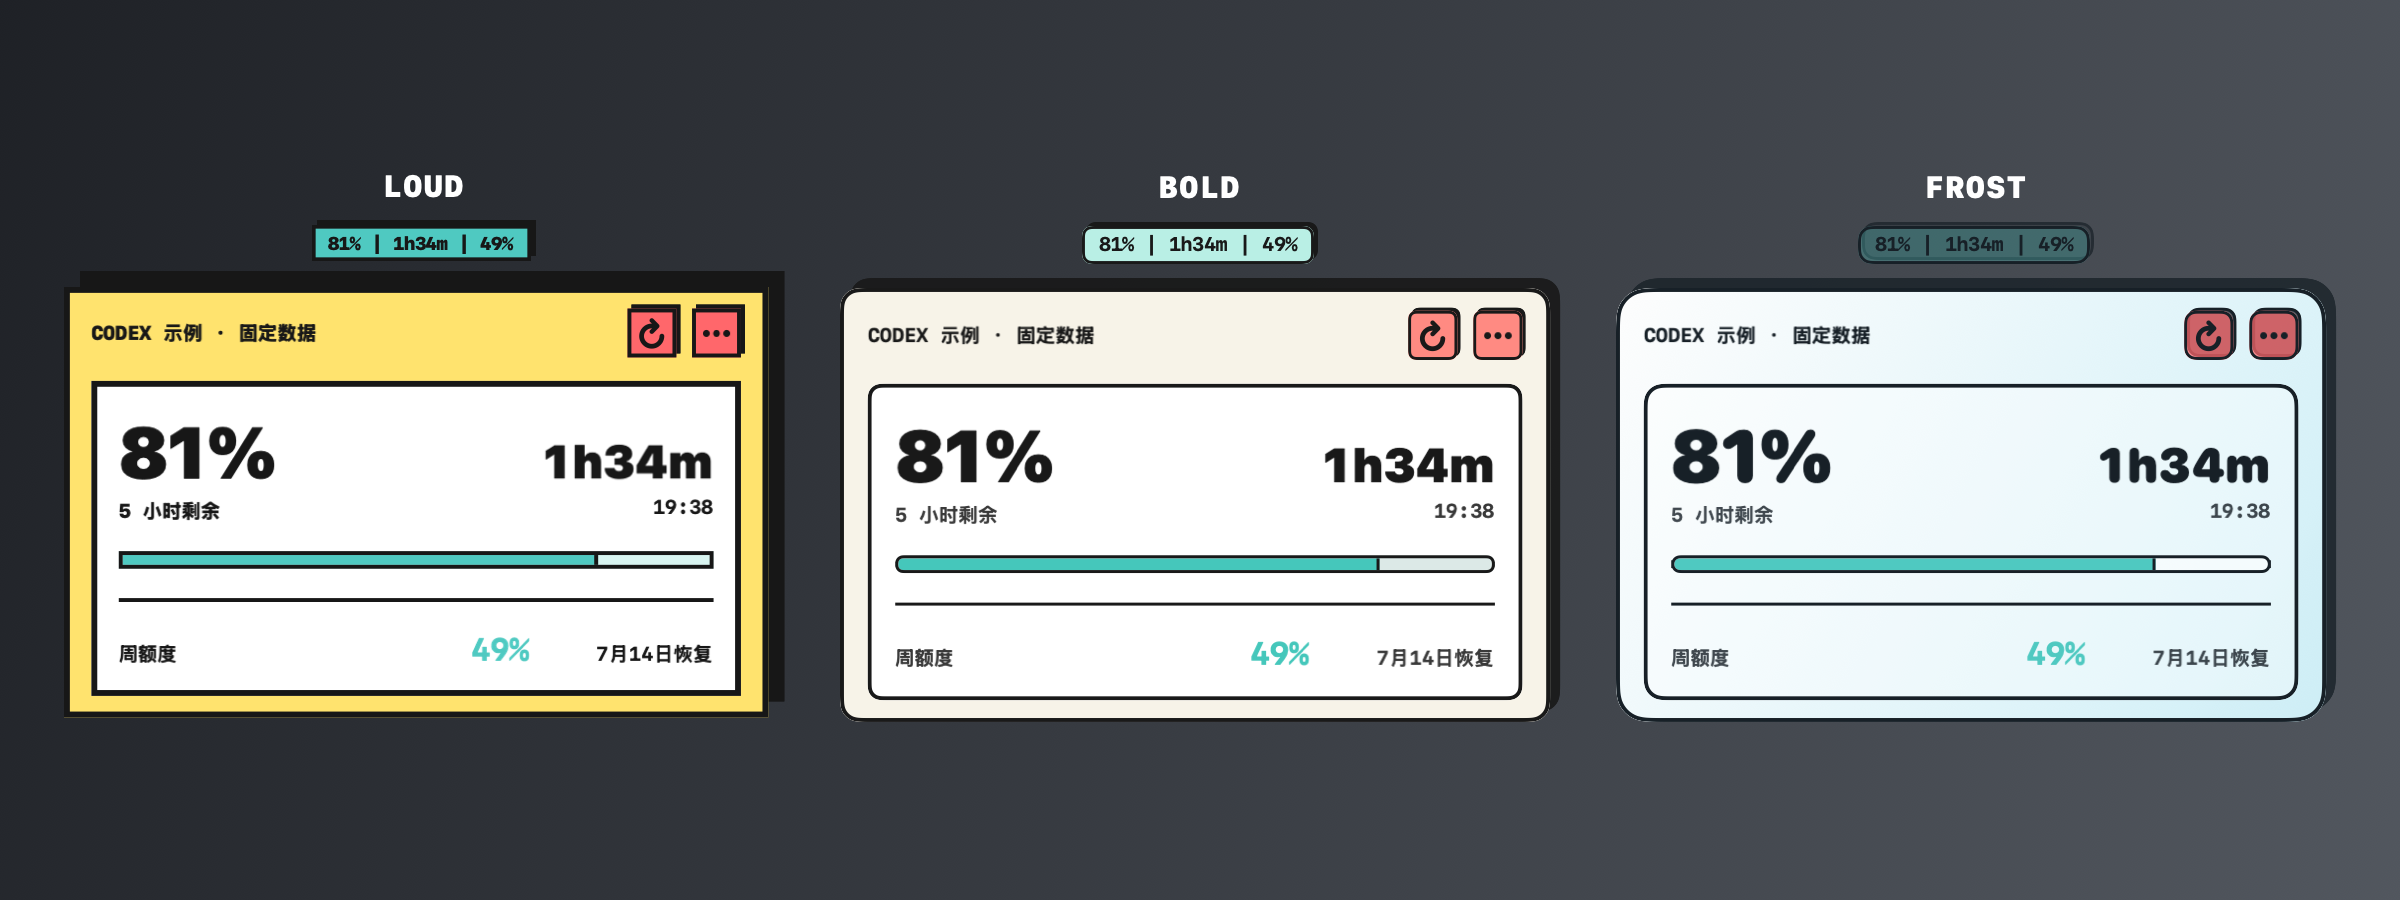
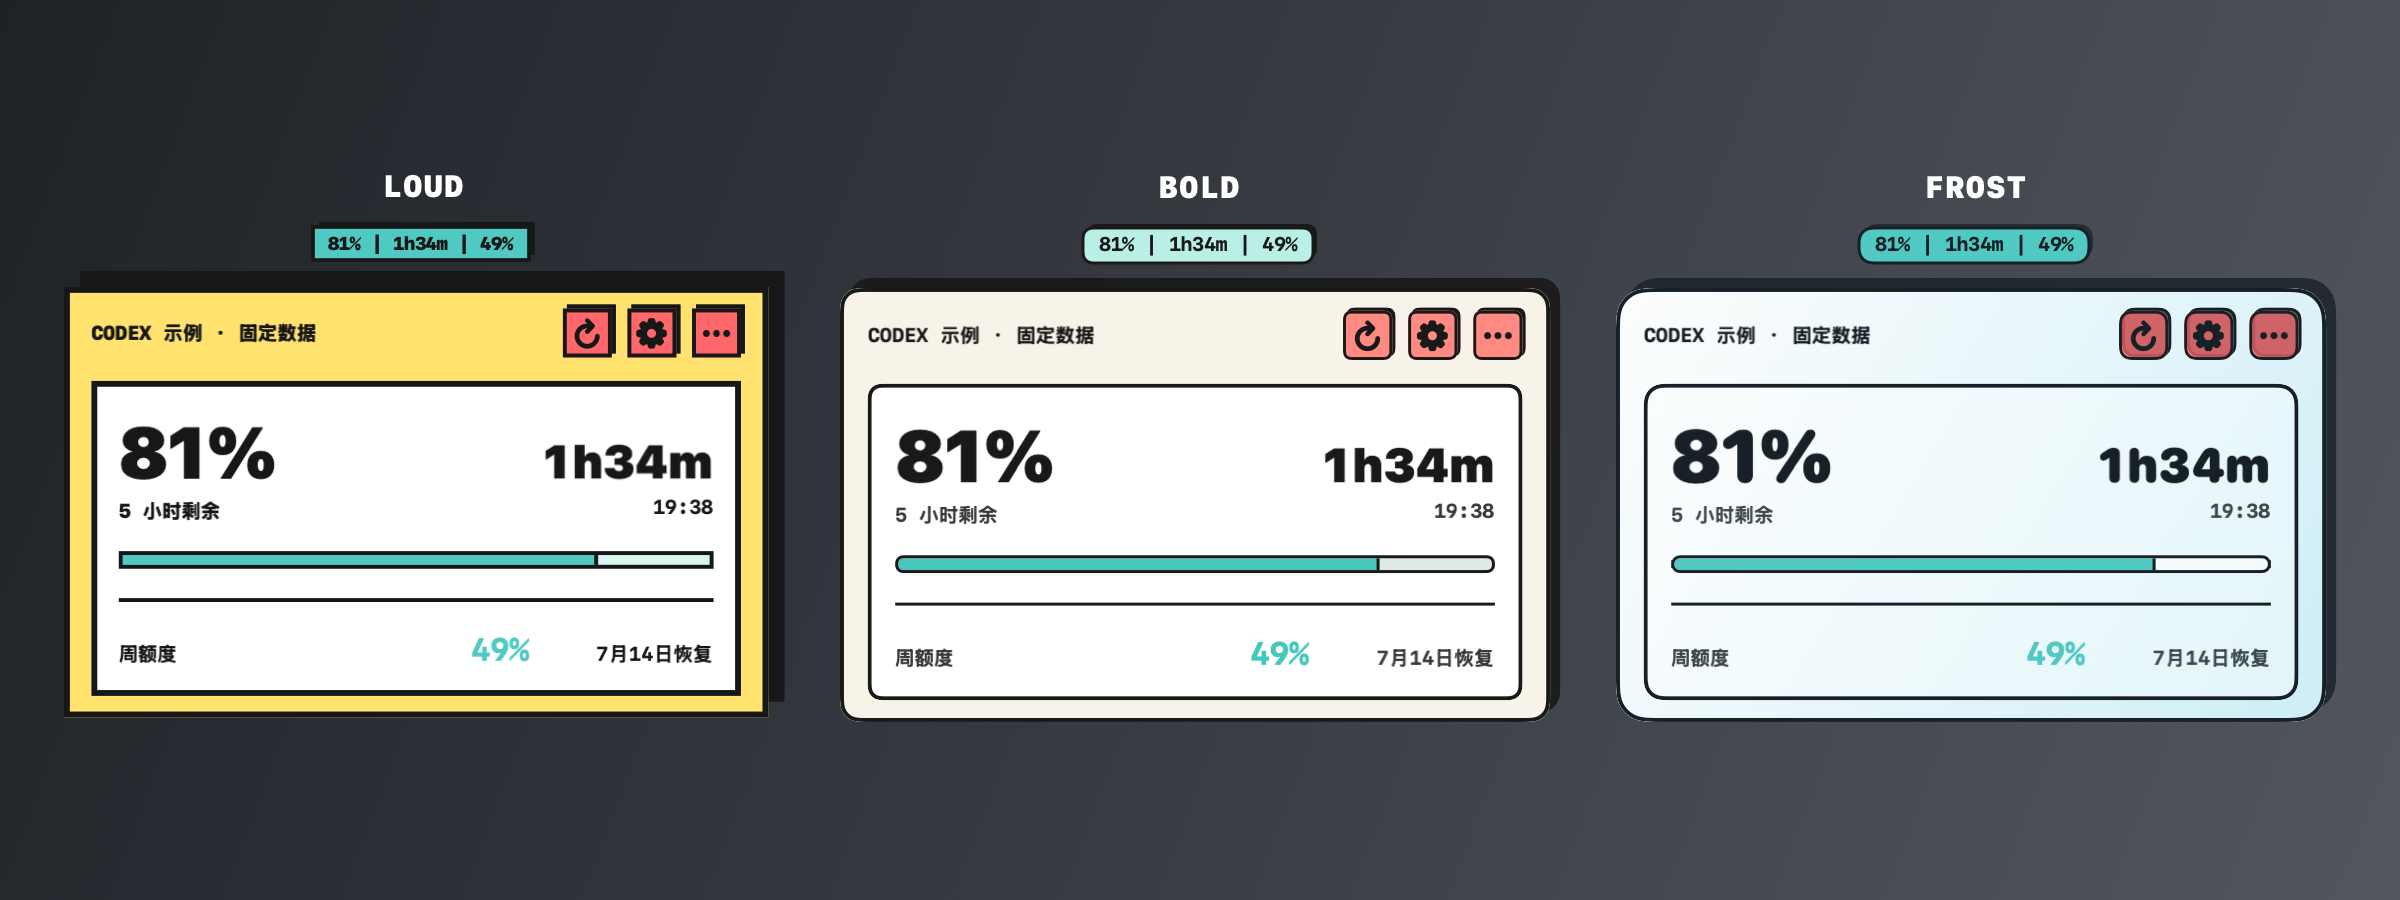
docs: refresh README and LOUD previews

diff --git a/Tests/CodexLimitPeekTests/Documentation/DocumentationPreviewRenderer.swift b/Tests/CodexLimitPeekTests/Documentation/DocumentationPreviewRenderer.swift
@@ -1326,7 +1326,7 @@ private struct DocumentationSettingsAtlas: View {
         ZStack {
             DocumentationLOUDStyle.yellow
 
-            VStack(spacing: 16) {
+            VStack(spacing: 12) {
                 HStack(alignment: .top, spacing: 16) {
                     ForEach(
                         Array(
@@ -1349,7 +1349,8 @@ private struct DocumentationSettingsAtlas: View {
                     }
                 }
             }
-            .padding(16)
+            .padding(.horizontal, 16)
+            .padding(.vertical, 12)
         }
         .frame(
             width: DocumentationPreviewRenderer
@@ -1362,7 +1363,7 @@ private struct DocumentationSettingsAtlas: View {
     private func atlasCell(
         _ cell: DocumentationSettingsCell
     ) -> some View {
-        VStack(alignment: .leading, spacing: 4) {
+        VStack(alignment: .leading, spacing: 8) {
             Text(cell.title)
                 .font(
                     .system(
@@ -1374,7 +1375,7 @@ private struct DocumentationSettingsAtlas: View {
                 .foregroundStyle(
                     DocumentationLOUDStyle.ink
                 )
-                .frame(height: 20)
+                .frame(height: 26)
 
             DocumentationOverlayPage(
                 quotaStore: quotaStore,
@@ -1382,11 +1383,15 @@ private struct DocumentationSettingsAtlas: View {
                 page: cell.page,
                 scrollTarget: cell.scrollTarget
             )
+            .offset(
+                y: cell.page == .statusItem ? 12 : 0
+            )
         }
         .frame(
             width: 336,
-            height: 576,
+            height: 582,
             alignment: .topLeading
         )
+        .clipped()
     }
 }

diff --git a/README.en.md b/README.en.md
@@ -19,12 +19,10 @@ It has no backend of its own and does not make direct quota HTTP requests or han
 ## Interface Preview
 
 <p align="center">
-  <img src="docs/images/panel-preview.png" alt="LOUD, BOLD, and FROST menu bar status items and quota panel previews" width="860">
+  <img src="docs/images/panel-preview.png" alt="LOUD, BOLD, and FROST status items and quota panels" width="860">
 </p>
 
-Every interface image in this README is generated by the repository's documentation renderer with fixed demonstration data. The quota and refresh images render the production `CompactStatusItemView`, the settings image uses real editor pages, and the three-theme overview uses the source theme preview components with the same appearance resolver. The renderer adds explanations only around those views; the quota, countdown, and refresh states shown are not the reader's real data.
-
-The screenshots retain the current production UI labels. This English README translates the documentation only and does not claim that the application interface itself is localized into English.
+Every interface image in this README is generated locally from fixed demonstration data. The three-theme overview uses production theme-preview components, the quota and refresh figures render the production status item, and the two settings figures render the real panel and status-item editors. The renderer adds headings and explanations only outside those production views; all quota values, times, and refresh states are fixed fixtures.
 
 - **LOUD:** High saturation, heavy strokes, and hard shadows create the most direct information hierarchy.
 - **BOLD:** Restrained colors, fine strokes, and structured geometry emphasize compactness and order.
@@ -53,7 +51,7 @@ In the dual-window layout, the countdown belongs to the 5-hour window. In the si
 ### Quota State Visualization
 
 <p align="center">
-  <img src="docs/images/quota-states-loud.png" alt="Production menu bar status items for normal, warning, and danger quota states in the LOUD theme" width="860">
+  <img src="docs/images/quota-states-loud.png" alt="Production status items for normal, warning, and danger quota states in LOUD" width="860">
 </p>
 
 The dual-window layout selects normal, warning, or danger from the remaining 5-hour quota. The single-window layout uses the remaining quota of its only valid window. Quota-state logic fixes the thresholds. Each theme can customize the colors used for those states without changing how the state is determined.
@@ -72,7 +70,7 @@ The dual-window layout selects normal, warning, or danger from the remaining 5-h
 ### Refresh Health Monitoring
 
 <p align="center">
-  <img src="docs/images/refresh-states-loud.png" alt="Live, confirming, and confirmed refresh states for dual-window and weekly-only layouts in the LOUD theme" width="860">
+  <img src="docs/images/refresh-states-loud.png" alt="Live, confirming, and confirmed-failure states for dual- and single-window layouts in LOUD" width="860">
 </p>
 
 Quota level and data freshness are two independent signals:
@@ -95,18 +93,15 @@ When a reliable snapshot exists, failure indication never replaces quota informa
 
 </details>
 
-### Feature Overview
+### Main Panel Actions
 
-- Automatically adapts between dual-window and single-window quota layouts
-- Refreshes at launch, manually, on schedule, and after wake from sleep
-- Confirms short-lived failures, keeps the latest reliable value, and retries recovery automatically
-- Uses freshness-limited local fallback data when the app-server is unavailable
-- Sends a local notification when quota is low
-- Offers optional voice announcements at 1-, 5-, or 10-minute intervals
-- Provides LOUD, BOLD, and FROST as independently persisted themes
-- Separates panel, menu bar status-item, and state-color settings
-- Uses the native macOS color panel with opacity and continuous preview
-- Collects no telemetry and uploads no prompts, replies, attachments, or quota records
+The main panel keeps three compact entry points:
+
+- **Refresh:** Requests an immediate quota update while preserving the 10-second request cooldown.
+- **Appearance Settings:** Opens the appearance editor directly from the gear button without first entering More.
+- **More:** Opens voice announcements, announcement intervals, and supporting actions such as Quit.
+
+These controls use the active theme's production button styling. Appearance Settings and More are independent pages.
 
 ## Appearance System
 
@@ -114,23 +109,43 @@ Appearance editing changes visual presentation only. It does not change quota th
 
 ### Theme Presets
 
-- **LOUD**, **BOLD**, and **FROST** each have an independent color configuration.
-- Panel typography, stroke, corner radius, shadow, and surface opacity are saved per theme.
-- Menu bar font, stroke, corner radius, shadow, padding, and height are also saved per theme.
-- The settings page's own font scale is global and does not change with the selected theme.
+- **LOUD**, **BOLD**, and **FROST** each retain their own colors, panel settings, status-item settings, and state colors.
+- Switching themes never overwrites either of the other profiles.
+- The settings page's own font scale is global rather than theme-specific.
 
-### Appearance Editor
+### Panel Appearance
 
 <p align="center">
-  <img src="docs/images/appearance-settings-loud.png" alt="LOUD theme settings for the base palette, panel controls, menu bar status item, and advanced state colors" width="720">
+  <img src="docs/images/appearance-panel-settings-loud.png" alt="Color, text, geometry, and shadow sections of the LOUD panel editor" width="720">
 </p>
 
-Using LOUD as the example, the complete appearance editor is divided into four groups:
+The panel editor keeps a live panel-and-status preview fixed at the top while the controls scroll independently below it. The pinned Color / Text / Geometry / Shadow row jumps directly to each section.
 
-- **Panel:** Base palette, panel typography and geometry, shadow, and surface opacity.
-- **Menu bar status item:** Separate primary and weekly text colors, shadow color and opacity, horizontal and vertical offsets, plus independent font, stroke, corner radius, horizontal padding, and height.
-- **State colors:** Normal, warning, danger, unavailable fill, and unavailable stripe colors.
-- **Settings typography:** A separate global font scale for the editor itself.
+Using LOUD as the example, it can adjust:
+
+- the background, surface, text and outline, and action-control base palette;
+- panel font size and the global settings-page font size;
+- outline width, corner radius, and panel geometry;
+- shadow depth, shadow blur, and surface opacity.
+
+Selecting the status item inside the fixed preview opens its dedicated editor.
+
+### Status Item Appearance
+
+<p align="center">
+  <img src="docs/images/appearance-status-settings-loud.png" alt="Text, shadow, geometry, and state-color sections of the LOUD status-item editor" width="720">
+</p>
+
+The status-item editor also keeps its live preview fixed above independently scrolling controls, with pinned Text / Shadow / Geometry / State Colors navigation. Hovering a quota state previews it; clicking pins it.
+
+It independently controls:
+
+- primary and weekly quota text colors;
+- shadow color, opacity, horizontal and vertical offsets, and blur;
+- font size, outline, corner radius, horizontal padding, and height;
+- normal, warning, danger, unavailable-fill, and unavailable-stripe colors.
+
+State colors are part of the status-item editor rather than a separate settings page. Each theme can save different colors without changing the fixed quota thresholds.
 
 <details>
 <summary><strong>View every adjustable parameter and range</strong></summary>
@@ -138,19 +153,27 @@ Using LOUD as the example, the complete appearance editor is divided into four g
 | Scope | Adjustable values |
 |---|---|
 | Theme | LOUD, BOLD, and FROST; saved independently |
-| Base palette | Background, surface, text and stroke, action controls |
-| Panel typography and geometry | Font 80%–125%, stroke 0–4 pt, corner radius 0–28 pt |
+| Base palette | Background, surface, text and outline, action controls |
+| Panel typography and geometry | Font 80%–125%, outline 0–4 pt, corner radius 0–28 pt |
 | Settings typography | Global 90%–150% |
 | Panel shadow and surface | Shadow depth 0–10 pt, blur 0–20 pt, surface opacity 55%–100% |
-| Menu bar status item | Primary text color, weekly text color, shadow color, shadow opacity 0%–100%, horizontal/vertical offsets -10–10 pt, blur 0–8 pt, font 8–14 pt, stroke 0–4 pt, corner radius 0–12 pt, horizontal padding 2–14 pt, height 14–22 pt |
+| Status item | Primary text color, weekly text color, shadow color, shadow opacity 0%–100%, horizontal/vertical offsets -10–10 pt, blur 0–8 pt, font 8–14 pt, outline 0–4 pt, corner radius 0–12 pt, horizontal padding 2–14 pt, height 14–22 pt |
 | State colors | Normal, warning, danger, unavailable fill, unavailable stripe |
-| Reset | Restores only the currently selected theme |
+| Reset | Restores only the selected theme; preserves other themes and settings-page font size |
 
 </details>
 
-### Native Color Picker
+### Native Color Picker and Theme Reset
 
-Every color setting provides preset swatches and a square “＋” button that opens the native macOS color panel. Base-palette and state colors support opacity; primary text, weekly text, and shadow colors for the menu bar status item are saved as opaque colors. Continuous changes appear immediately in the current preview and are saved to the theme that was selected when the picker opened.
+Every color setting provides preset swatches and a square “＋” button that opens the native macOS color panel. Base-palette and state colors support opacity; primary text, weekly text, and status-item shadow colors are stored as opaque colors. Continuous changes from the panel, sliders, or eyedropper update the fixed preview immediately and remain attached to the theme selected when the picker opened.
+
+“Restore Current Theme Defaults” resets only the selected theme's colors, panel settings, and status-item settings. It preserves the other themes and the global settings-page font scale. When the theme already matches its defaults, the button is disabled.
+
+## Other Features
+
+- Sends a local notification when quota is low.
+- Offers optional voice announcements at 1-, 5-, or 10-minute intervals; their controls remain in More.
+- Restores the latest cache at launch before refreshing in the background and can use sufficiently fresh local records when live reading fails.
 
 ## Architecture
 
@@ -282,24 +305,27 @@ Development builds keep the incremental `.build` cache. The end-user installatio
 │       ├── App/
 │       │   ├── AppDelegate.swift
 │       │   └── CodexLimitPeekApp.swift
-│       ├── Quota/
-│       │   ├── QuotaStore.swift
-│       │   └── …
+│       ├── Appearance/
+│       │   ├── AppearanceStore.swift
+│       │   ├── ThemeChromeViews.swift
+│       │   └── Editor/
+│       │       ├── AppearanceEditorView.swift
+│       │       ├── StatusItemEditorView.swift
+│       │       └── …
+│       ├── DeveloperTools/
 │       ├── MenuBar/
 │       │   ├── CompactStatusItemView.swift
 │       │   └── …
-│       └── Appearance/
-│           ├── AppearanceStore.swift
-│           ├── ThemeChromeViews.swift
-│           └── Editor/
-│               ├── AppearanceEditorView.swift
-│               └── …
+│       └── Quota/
+│           ├── QuotaStore.swift
+│           └── …
 └── Tests/
     └── CodexLimitPeekTests/
-        ├── Application/
-        ├── Quota/
         ├── Appearance/
-        └── Documentation/
+        ├── Application/
+        ├── DeveloperTools/
+        ├── Documentation/
+        └── Quota/
 ```
 
 ## System Requirements
